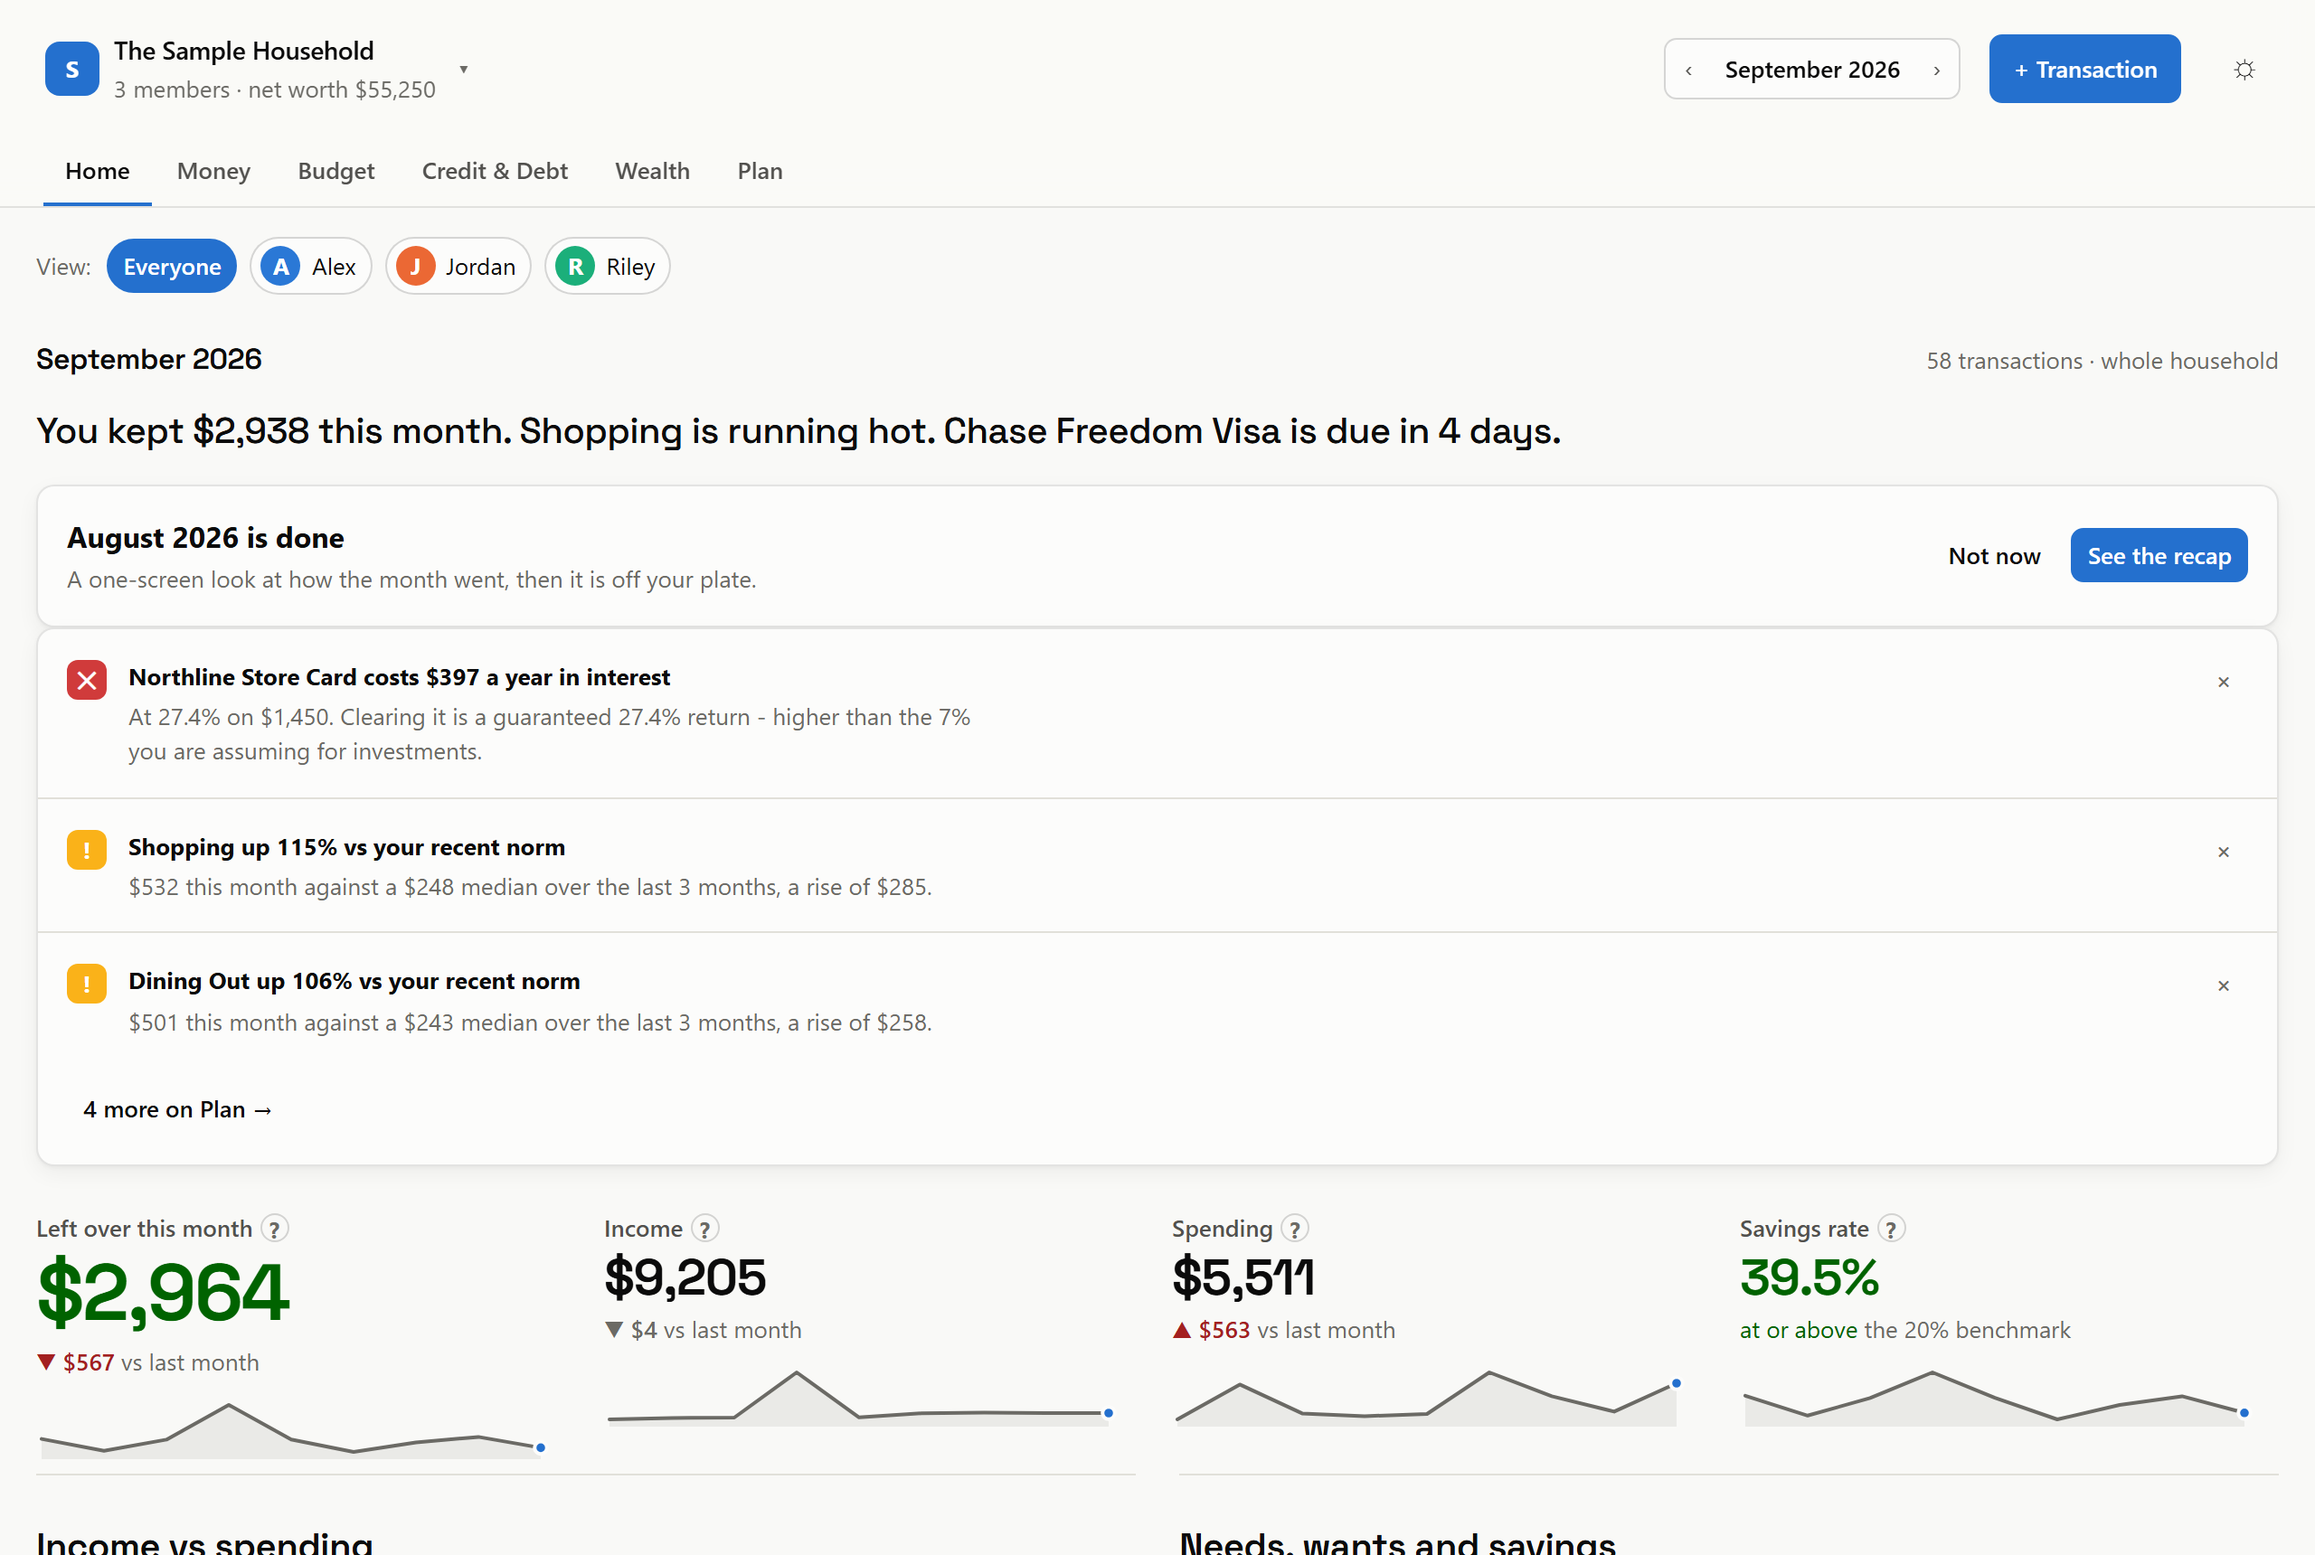
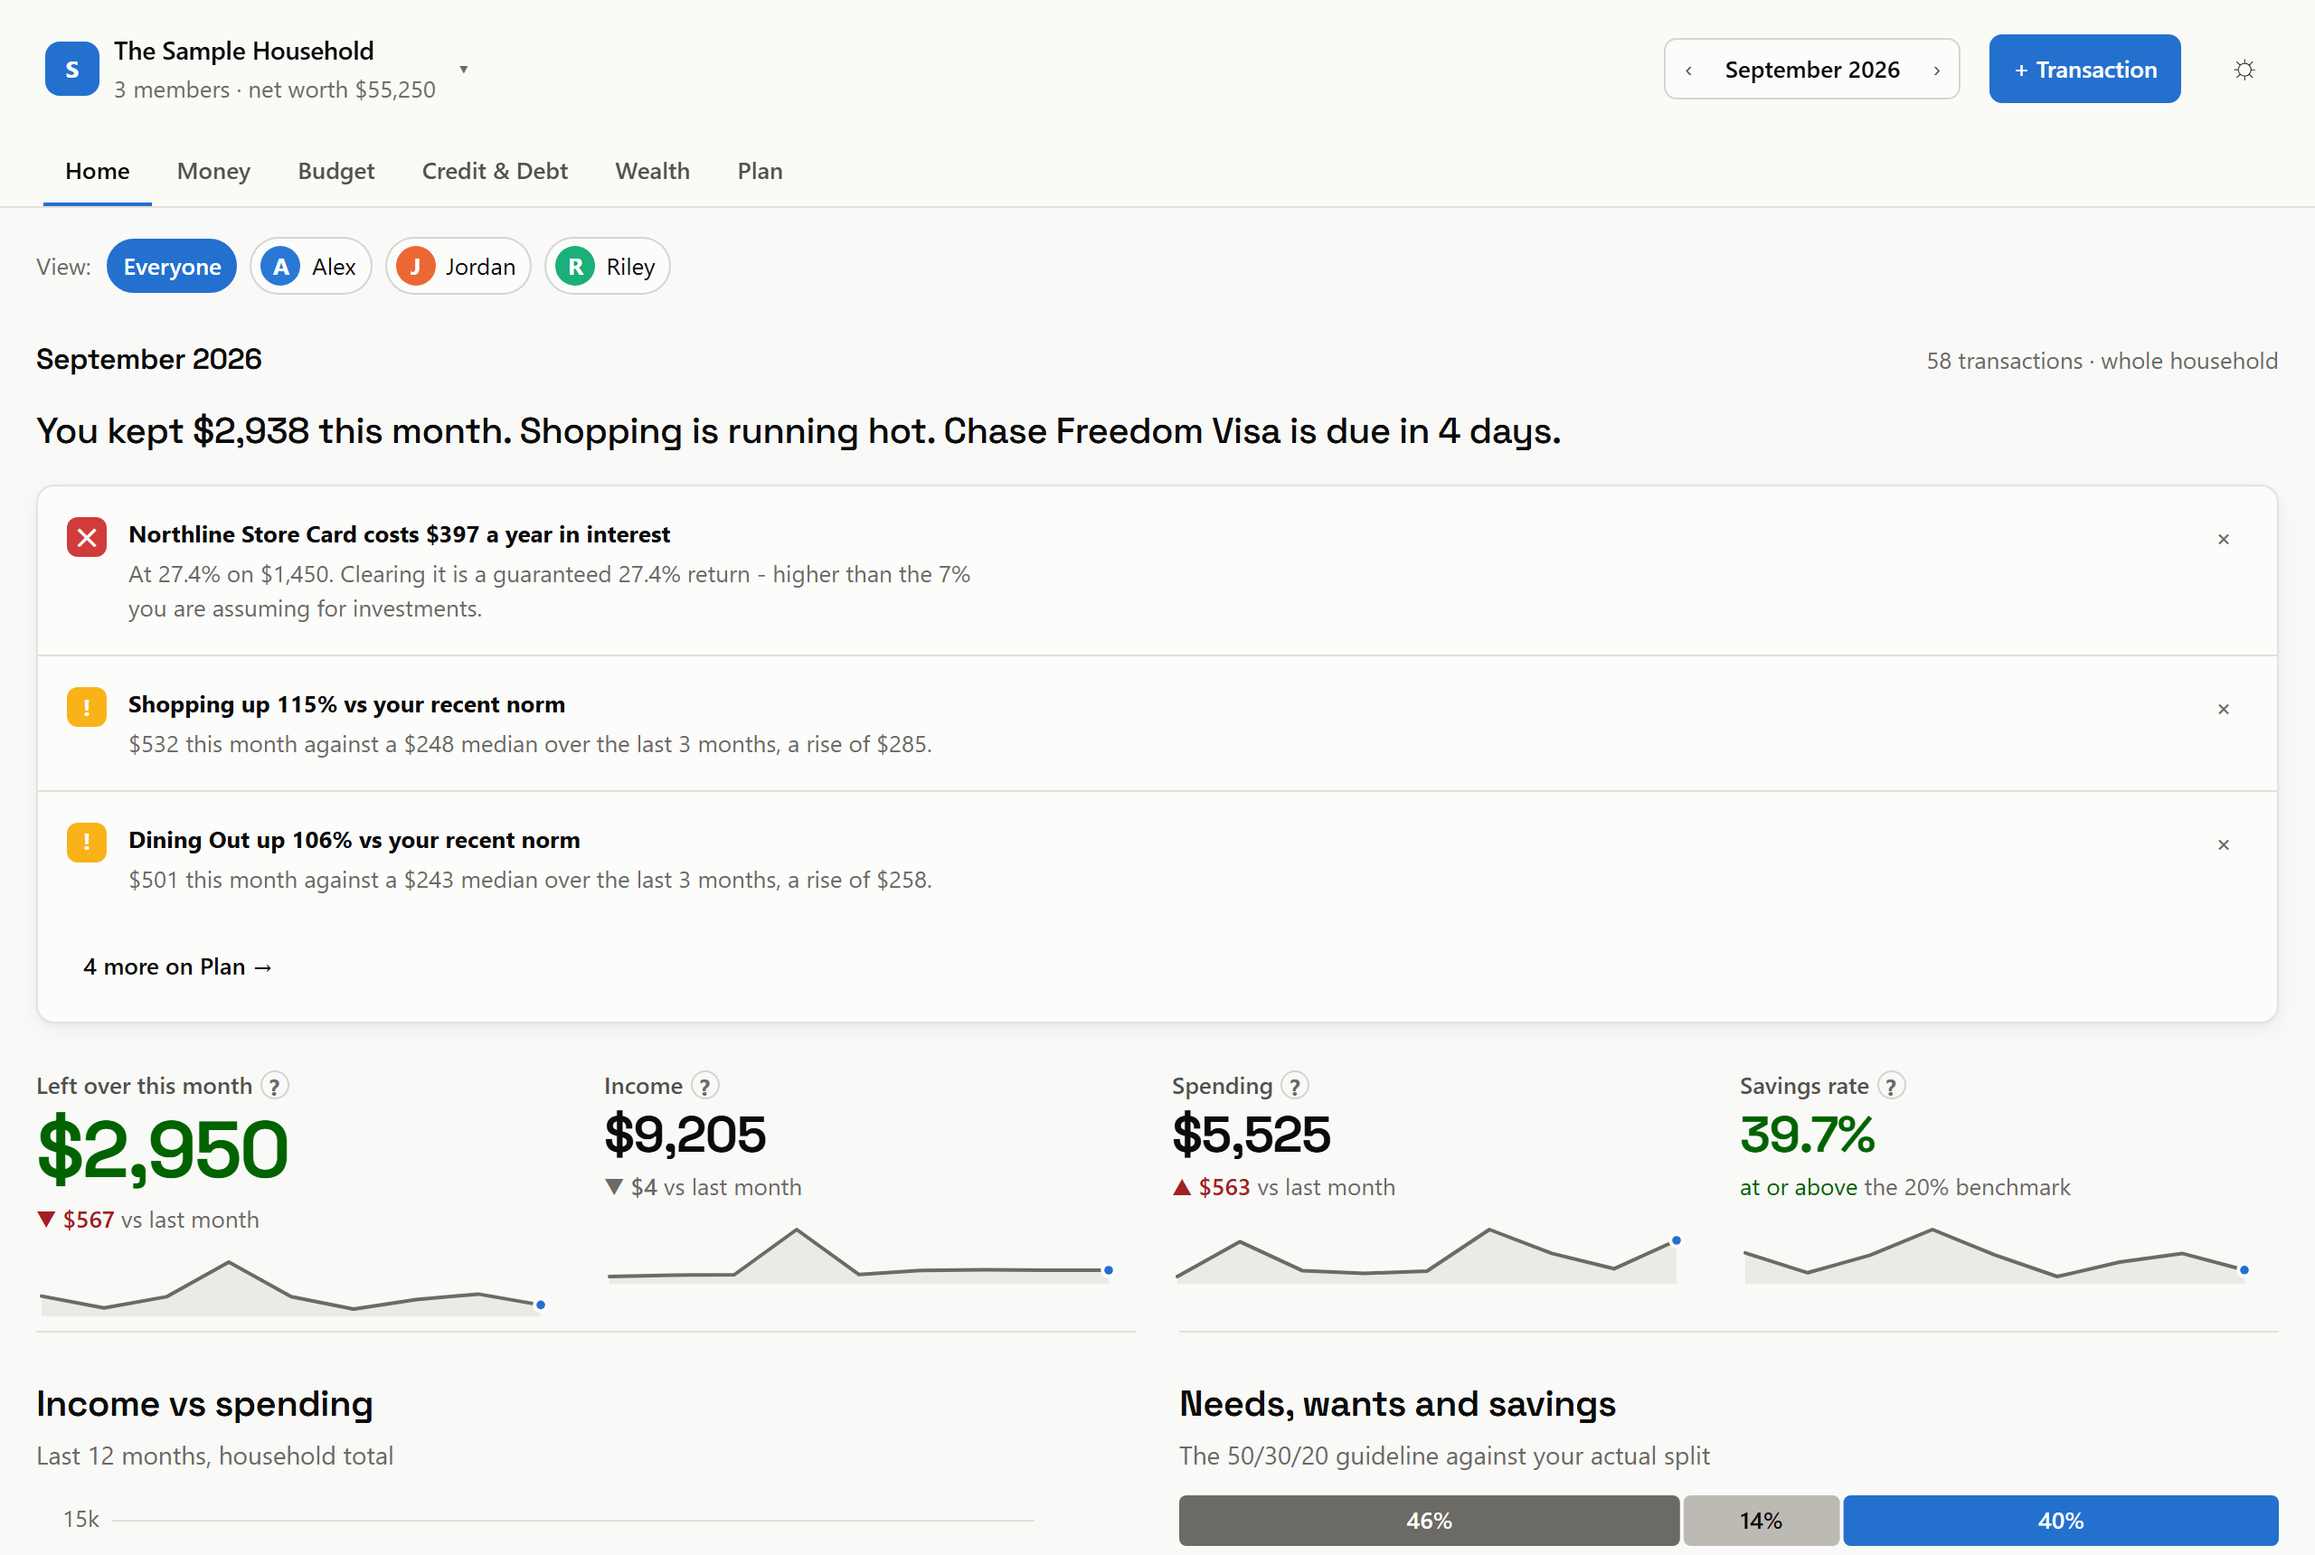
Make the screenshot set the same whatever day it is captured
Checking the rendered page on GitHub showed the phone shots carrying the
"close the month" offer while the desktop ones did not. The suppression was
applied only to the README block, so the two halves of the same set disagreed.

The deeper problem is that the offer appears only in the first days of a month,
so a set captured on the 3rd and a set captured on the 20th would differ for
reasons that have nothing to do with the app changing. Marking the recap read
after every seed makes every image reproducible on any date, which is what a
documentation screenshot has to be.

diff --git a/make_screenshots.py b/make_screenshots.py
@@ -108,7 +108,7 @@ async def main():
             await shot(page, "04-how-to-start")
 
             # ---------------- 05: the import screen ----------------
-            await page.evaluate("S=seedSample(); save(); closeModal(); go('import');")
+            await page.evaluate("S=seedSample(); S.settings.recapSeen=addMonths(thisMonth(),-1); save(); closeModal(); go('import');")
             await shot(page, "05-import-tab")
 
             # ---------------- 06: statement review ----------------
@@ -121,7 +121,7 @@ async def main():
             await shot(page, "06-review")
 
             # ---------------- 07: overview ----------------
-            await page.evaluate("closeModal(); S=seedSample(); save(); UI.month=thisMonth(); go('home'); window.scrollTo(0,0);")
+            await page.evaluate("closeModal(); S=seedSample(); S.settings.recapSeen=addMonths(thisMonth(),-1); save(); UI.month=thisMonth(); go('home'); window.scrollTo(0,0);")
             await shot(page, "07-overview")
 
             # ---------------- 08: cards and credit ----------------
@@ -148,7 +148,7 @@ async def main():
                             "AppleWebKit/605.1.15 (KHTML, like Gecko) Version/17.5 "
                             "Mobile/15E148 Safari/604.1"))
             p2 = await fresh(pctx, base)
-            await p2.evaluate("S=seedSample(); save(); closeModal(); UI.month=thisMonth(); go('home'); window.scrollTo(0,0);")
+            await p2.evaluate("S=seedSample(); S.settings.recapSeen=addMonths(thisMonth(),-1); save(); closeModal(); UI.month=thisMonth(); go('home'); window.scrollTo(0,0);")
             await shot(p2, "13-phone-overview")
             await p2.evaluate("go('cards'); window.scrollTo(0,0);")
             await shot(p2, "14-phone-cards")
@@ -162,7 +162,7 @@ async def main():
             rctx = await browser.new_context(viewport={"width": 1360, "height": 900},
                                              device_scale_factor=2)
             r = await fresh(rctx, base)
-            await r.evaluate("S=seedSample(); save(); closeModal(); UI.month=thisMonth();")
+            await r.evaluate("S=seedSample(); S.settings.recapSeen=addMonths(thisMonth(),-1); save(); closeModal(); UI.month=thisMonth();")
 
             async def framed(name, setup, until, theme=None, cap=1000, pad=26):
                 """
@@ -190,11 +190,6 @@ async def main():
                                    clip={"x": 0, "y": 0, "width": 1360, "height": height})
                 print(f"  {path.relative_to(ROOT)}  ({height}px tall)")
 
-            # The recap offer only appears in the first days of a month. It is a
-            # real feature but a transient one, so it does not belong in the
-            # picture that says "this is what the dashboard looks like".
-            await r.evaluate("S.settings.recapSeen = addMonths(thisMonth(), -1); save();")
-
             # the headline, what needs attention, and the four figures with their trends
             await framed("readme-overview", "go('home'); window.scrollTo(0,0);",
                          until="#view > .g-kpi")
@@ -214,7 +209,7 @@ async def main():
             # the statement importer, which is the least obvious feature
             await r.evaluate("document.documentElement.removeAttribute('data-theme')")
             await r.evaluate("""async () => {
-                S = seedSample(); save(); go('import');
+                S = seedSample(); S.settings.recapSeen=addMonths(thisMonth(),-1); save(); go('import');
                 const f = new File([await fetch('samples/sample_card_statement.pdf')
                     .then(x => x.blob())], 'sample_card_statement.pdf');
                 await statementFlow(f);
@@ -226,7 +221,7 @@ async def main():
             p3 = await browser.new_context(
                 viewport=PHONE, device_scale_factor=2, is_mobile=True, has_touch=True)
             p3page = await fresh(p3, base)
-            await p3page.evaluate("S=seedSample(); save(); closeModal(); UI.month=thisMonth(); go('home'); window.scrollTo(0,0);")
+            await p3page.evaluate("S=seedSample(); S.settings.recapSeen=addMonths(thisMonth(),-1); save(); closeModal(); UI.month=thisMonth(); go('home'); window.scrollTo(0,0);")
             await shot(p3page, "readme-phone-overview")
             await p3page.evaluate("go('cards'); window.scrollTo(0,0);")
             await shot(p3page, "readme-phone-cards")
